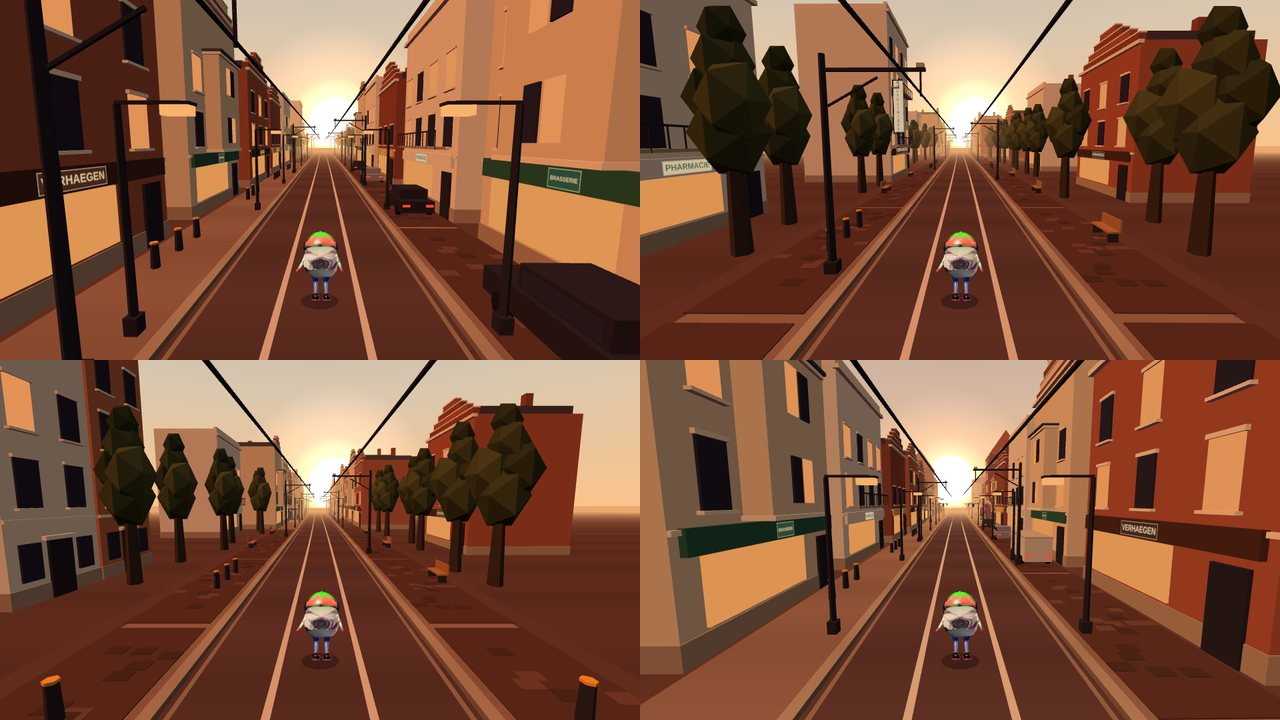
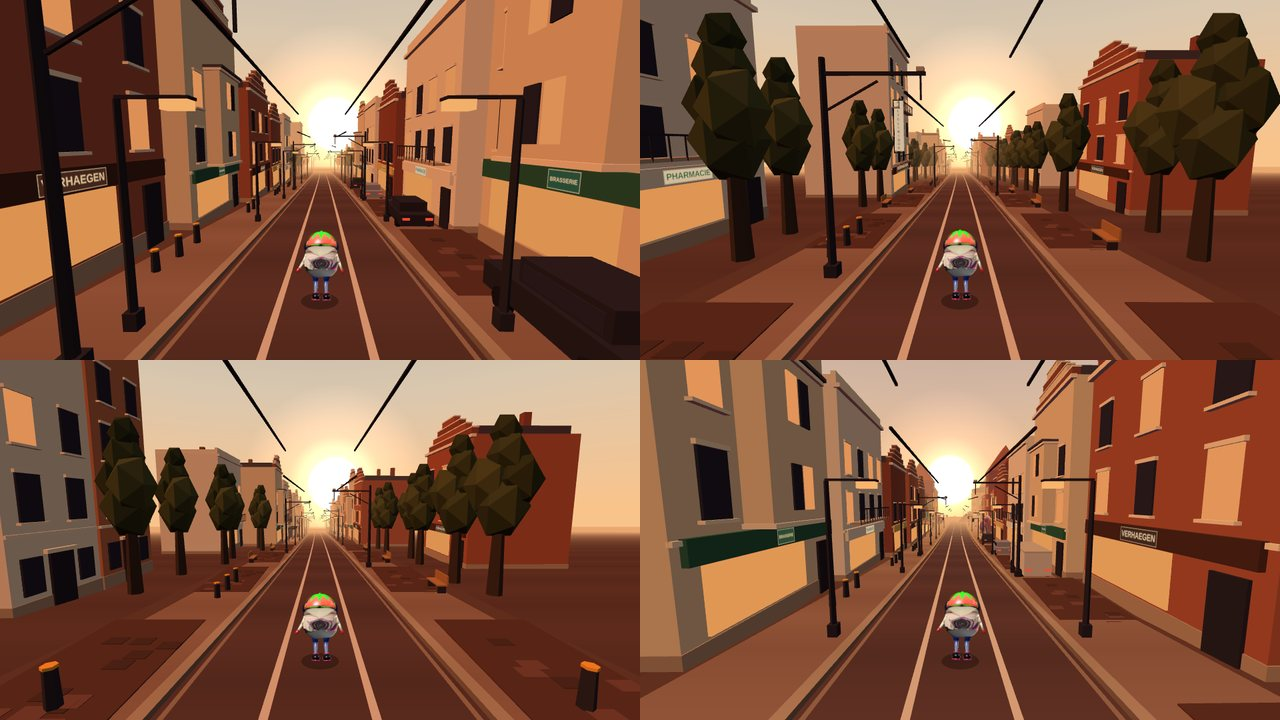
Saint-Gilles runs downhill (7 % grade, from the photos): road, scenery, coins and hazards sit on the slope, the far ground tips with it; gameplay stays flat. Also fix: the first frame's time step could be negative, sending the game clock below zero at start-up (and hiding the pickup sparkle, which m

diff --git a/tests/qa3d_world.js b/tests/qa3d_world.js
@@ -272,6 +272,10 @@ const res = []; const T = (n, ok, i = '') => { res.push(ok); console.log((ok ? '
     const mat = TramArt.material(); out.cells = Object.keys(TramArt.cells).length; out.canvas = mat.map.image instanceof HTMLCanvasElement && mat.map.image.width === 512;
     out.signs = {}; for (const n of ['polyclinique', 'tramStop', 'rowE', 'rowF', 'rowG', 'rowH', 'cornerCafe', 'gateTram']) { const m = ENV3D.tram.props[n](); out.signs[n] = !!(m.sprite && m.material() === mat && m.merged); }
     out.signs.rowA = !ENV3D.tram.props.rowA().sprite;
+    // descent: the street falls 7 % along its length in proportion to its blend; flat everywhere else
+    { const P = w.pieces.find(q => q.type === 'seg' && q.id === 'tramRun'), B = w.pieces.find(q => q.type === 'seg' && q.id === 'cityRunB'); let mono = true, prev = -1;
+      for (let z = P.z0; z <= P.z1; z += 25) { const d = w.dropAt(z); if (d < prev - 1e-6) mono = false; prev = d; }
+      out.grade = { total: +(w.dropAt(P.z1) - w.dropAt(P.z0)).toFixed(1), expect: 0.07 * (P.z1 - P.z0 - P.seg.district), mono, mid: +w.gradeAt((P.z0 + P.z1) / 2).toFixed(3), ends: [w.gradeAt(P.z0 + 1), w.gradeAt(P.z1 - 1)].map(v => +v.toFixed(3)), city: w.dropAt(B.z1) - w.dropAt(B.z0), before: w.gradeAt(B.z0 + 10), afterRun: +(w.dropAt(P.z1 + 3000) - w.dropAt(P.z1)).toFixed(3) }; }
     // the sprite panel of the Polyclinique is the vertical blade sign: tall and narrow
     const pm = ENV3D.tram.props.polyclinique(); pm.sprite.computeBoundingBox(); const bb = pm.sprite.boundingBox; out.blade = { poly: TramArt.cells.poly.ar < 0.3, tall: bb.max.y > 9 };
     return out;
@@ -298,16 +302,23 @@ const res = []; const T = (n, ok, i = '') => { res.push(ok); console.log((ok ? '
     // draw one real frame in the middle of the street and look at it: a bright warm sun low in the upper half, a dark warm street under it
     const mid = (P.z0 + P.z1) / 2; g.p.z = mid; g.world.extend(mid); g.world.items = []; const ah = g.world.playerBand(mid + 300, 0); g.bgTo = ah.to; g.bgT = ah.t; const pb2 = g.world.playerBand(mid, 0); g.camX = pb2.c; g.camOff = pb2.off; g.time += 0.01; r.atmoQ = -1; r.menu = 0;
     r.draw(g); r.renderer.render = realRender; r.draw(g);
+    // the scenery sits on the slope: every visible prop's height below the runner's level is the grade times its distance ahead (checked on the pooled prop meshes)
+    let nProp = 0, worst = 0; for (const k in r.props) for (let n = 0; n < r.propUsed[k]; n++) { const o = r.props[k][n]; if (o.position.z < -20 && o.position.z > -120) { nProp++; worst = Math.max(worst, Math.abs((o.position.y - 0.15) / o.position.z - 0.07)); } }
+    const slope = { nProp, worst: +worst.toFixed(3), pivot: +r.groundPivot.rotation.x.toFixed(3), expect: +(-Math.atan(0.07)).toFixed(3) };
     const cv = document.getElementById('gl'), url = cv.toDataURL('image/png'), img = new Image(); img.src = url; await img.decode();     // (read in the same task as the draw: the GL canvas does not keep its buffer)
     const c2 = document.createElement('canvas'); c2.width = cv.width; c2.height = cv.height; const cx = c2.getContext('2d'); cx.drawImage(img, 0, 0);
     const W = c2.width, H = c2.height, px = cx.getImageData(0, 0, W, H).data; let best = 0, bx = 0, by = 0, warm = 0, n = 0;
     for (let y = 0; y < H * 0.7; y += 2) for (let x = 0; x < W; x += 2) { const i = (y * W + x) * 4, L = px[i] + px[i + 1] + px[i + 2]; if (L > best) { best = L; bx = x; by = y; } }
     let hr = 0, hb = 0, hn = 0; for (let dy = -60; dy <= 60; dy += 6) for (let dx = -60; dx <= 60; dx += 6) { const d = Math.hypot(dx, dy); if (d < 28 || d > 60) continue; const x = bx + dx, y = by + dy; if (x < 0 || y < 0 || x >= W || y >= H) continue; const i = (y * W + x) * 4; hr += px[i]; hb += px[i + 2]; hn++; }   // the halo around the sun
     for (let y = Math.floor(H * 0.85); y < H; y += 4) for (let x = Math.floor(W * 0.3); x < W * 0.7; x += 4) { const i = (y * W + x) * 4; if (px[i] > 20 && px[i] >= px[i + 2]) warm++; n++; }
-    return { dropped: r.dropped, by: r.droppedBy, used, rows, wires, peak: +peak.toFixed(2), sun: { rgb: [...px.slice((by * W + bx) * 4, (by * W + bx) * 4 + 3)], x: +(bx / W).toFixed(2), y: +(by / H).toFixed(2) }, warmRoad: +(warm / n).toFixed(2), halo: [Math.round(hr / hn), Math.round(hb / hn)], bgTo: g.bgTo };
+    return { dropped: r.dropped, by: r.droppedBy, used, rows, wires, peak: +peak.toFixed(2), sun: { rgb: [...px.slice((by * W + bx) * 4, (by * W + bx) * 4 + 3)], x: +(bx / W).toFixed(2), y: +(by / H).toFixed(2) }, warmRoad: +(warm / n).toFixed(2), halo: [Math.round(hr / hn), Math.round(hb / hn)], slope, bgTo: g.bgTo };
   });
+  T('the street runs downhill (7 %): the fall over the segment is grade x run (' + Ts.grade.total + ' of ' + Ts.grade.expect + ' units), steady (never uphill), full 0.07 slope in the middle and none at the ends, flat on the neighbouring city piece and after the street',
+    Math.abs(Ts.grade.total - Ts.grade.expect) < 3 && Ts.grade.mono && Math.abs(Ts.grade.mid - 0.07) < 0.002 && Ts.grade.ends.every(v => v < 0.01) && Ts.grade.city === 0 && Ts.grade.before === 0, JSON.stringify(Ts.grade));
   T('driving through the whole tram street: nothing dropped from any pool (peak ' + Math.round(Tg.peak * 100) + ' %), the wire runs unbroken (both rails in every slot: ' + Tg.wires + ' spans), houses on every pass (' + Tg.rows + ')',
     Tg.dropped === 0 && Tg.peak <= 0.85 && Tg.wires >= 20 && Tg.rows > 100 && Tg.bgTo === 'tram', JSON.stringify({ dropped: Tg.dropped, by: Tg.by, peak: Tg.peak, wires: Tg.wires, rows: Tg.rows }));
+  T('in the middle of the street the scenery follows the slope (' + Tg.slope.nProp + ' props between 20 and 120 m ahead lie on the 7 % line, worst error ' + Tg.slope.worst + ') and the far ground tips down with it (' + Tg.slope.pivot + ' rad)',
+    Tg.slope.nProp > 15 && Tg.slope.worst < 0.012 && Math.abs(Tg.slope.pivot - Tg.slope.expect) < 0.003, JSON.stringify(Tg.slope));
   T('a real frame in the middle of the street: the brightest spot is the sun, low and ahead (upper half, near the middle), bright, in a warm orange halo (R >> B), over a warm road',
     Tg.sun.rgb[0] > 220 && Tg.halo[0] > Tg.halo[1] + 25 && Tg.sun.y < 0.5 && Tg.sun.y > 0.1 && Math.abs(Tg.sun.x - 0.5) < 0.2 && Tg.warmRoad > 0.9, JSON.stringify(Tg.sun) + ' halo ' + Tg.halo + ' warmRoad ' + Tg.warmRoad);
 

diff --git a/src3d/renderer3d.js b/src3d/renderer3d.js
@@ -44,7 +44,10 @@ class Renderer3D {
     this.sunGlow = new THREE.Mesh(new THREE.PlaneGeometry(1, 1), new THREE.MeshBasicMaterial({ map: new THREE.CanvasTexture(gc), transparent: true, blending: THREE.AdditiveBlending, fog: false, depthWrite: false }));
     this.sunGlow.renderOrder = -1; this.sunGlow.visible = false; this.scene.add(this.sunGlow); this.sunOff = { x: -70, y: 28, glow: 0, size: base.sunDisc.size };
     const ground = new THREE.Mesh(new THREE.PlaneGeometry(900, 900), new THREE.MeshLambertMaterial({ color: base.groundFar }));
-    ground.rotation.x = -Math.PI / 2; ground.position.y = -0.03; this.scene.add(ground);
+    // two halves of the far ground: behind the runner it stays flat; ahead it hangs from a pivot at the runner and tips down with the street's slope (see World.dropAt), so a descent never buries the road
+    ground.geometry = new THREE.PlaneGeometry(900, 450); ground.rotation.x = -Math.PI / 2; ground.position.set(0, 0, -225);
+    this.groundPivot = new THREE.Group(); this.groundPivot.position.y = -0.03; this.groundPivot.add(ground); this.scene.add(this.groundPivot);
+    const groundBack = new THREE.Mesh(new THREE.PlaneGeometry(900, 450), ground.material); groundBack.rotation.x = -Math.PI / 2; groundBack.position.set(0, -0.03, 225); this.scene.add(groundBack);
     this._c = [new THREE.Color(), new THREE.Color(), new THREE.Color(), new THREE.Color(), new THREE.Color(), new THREE.Color()];   // scratch colours for blending
     this.atmoTo = ''; this.atmoQ = -1; this.atmoKey = ''; this.applyAtmosphere(this.baseId, 0);
 
@@ -182,6 +185,9 @@ class Renderer3D {
     this.ui.beatPulse = pulse;
 
     // ---- road ribbons (two roads at a fork)
+    // descent: how far below the runner's level a point z (design units) lies (0 on flat road); the slope of the far ground follows the steepest slope seen from here to 150 m ahead
+    const d0 = w.dropAt(p.z), dy = z => -(w.dropAt(z) - d0) * U.Z;
+    this.groundPivot.rotation.x = -Math.atan(Math.max(w.gradeAt(p.z), w.gradeAt(p.z + 1500)));
     this.road.update(w, rz, Lref);
 
     // ---- scenery: slots of SEG_LEN, per road and side; the biome of each side is chosen by the blend at that spot
@@ -208,12 +214,12 @@ class Renderer3D {
           if (c0 === null) { c0 = this.centreOf(sc.a, b.side) - Lref; c1 = this.centreOf(sc.b, b.side) - Lref; }
           // an entrance marker at the first slot of a new biome (only when the change is clean: the two slots before differ, the next one agrees)
           if (env.entrance && !inner && pick(i - 1) !== envId && pick(i - 2) !== envId && pick(i + 1) === envId)
-            this.place(env.entrance, c0 + (c1 - c0) * (1.5 / SL) + sg * 5.2, WALK_Y, rz - zs - 1.5, (sg < 0 ? Math.PI : 0) - Math.atan2(c1 - c0, SL));
+            this.place(env.entrance, c0 + (c1 - c0) * (1.5 / SL) + sg * 5.2, WALK_Y + dy((zs + 1.5) / U.Z), rz - zs - 1.5, (sg < 0 ? Math.PI : 0) - Math.atan2(c1 - c0, SL));
           for (const pl of this.layoutFor(envId, i)) {
             if ((pl.x < 0 ? -1 : 1) !== sg) continue;
             if (inner && (!env.innerOk.has(pl.prop) || Math.abs(pl.x) - hwM > avail - 0.8)) continue;
             const t = pl.dist / SL, cx = c0 + (c1 - c0) * t;
-            this.place(pl.prop, cx + pl.x, WALK_Y, rz - zs - pl.dist, (pl.x < 0 ? Math.PI : 0) + (pl.rotY || 0) - Math.atan2(c1 - c0, SL));
+            this.place(pl.prop, cx + pl.x, WALK_Y + dy((zs + pl.dist) / U.Z), rz - zs - pl.dist, (pl.x < 0 ? Math.PI : 0) + (pl.rotY || 0) - Math.atan2(c1 - c0, SL));
           }
         }
       }
@@ -227,8 +233,9 @@ class Renderer3D {
       if (it.taken || dz < -150 || dz > 1500) continue;         // design units: 15 m behind .. 150 m ahead
       if (it.offV !== w.ver) { it.off = w.bandNear(it.z, it.x).off; it.offV = w.ver; }   // road curve offset at the item, cached until the track changes
       const x = (it.x + it.off) * U.X - Lref, zr = -dz * U.Z;
-      if (it.kind === 'prop') { this.place(it.spr, x, WALK_Y, zr, 0); continue; }
-      if (it.kind === 'coin') this.items.place('coin', x, it.h * U.Y, zr); else this.items.place(it.kind, x, 0, zr);
+      const iy = dy(it.z);                                     // on a descent the item sits on the sloping road
+      if (it.kind === 'prop') { this.place(it.spr, x, WALK_Y + iy, zr, 0); continue; }
+      if (it.kind === 'coin') this.items.place('coin', x, it.h * U.Y + iy, zr); else this.items.place(it.kind, x, iy, zr);
     }
     for (const name in this.props) { const pool = this.props[name]; for (let n = this.propUsed[name]; n < pool.length; n++) pool[n].visible = false; }
     this.items.end(g.time);

diff --git a/src3d/road3d.js b/src3d/road3d.js
@@ -14,7 +14,7 @@ class Road3D {
   constructor(scene, envs, baseId) {
     const D = TRACK3D, N = this.N = D.SECTIONS, SC = this.SC = 15, VPS = this.VPS = SC * 2;
     this.baseId = baseId; this.envs = envs; this.pals = {};
-    this.P = new Float64Array(5); this.X = new Float64Array(12); this.Y = new Float64Array(12); this.C = new Array(11).fill(null);   // scratch for band()
+    this.P = new Float64Array(6); this.X = new Float64Array(12); this.Y = new Float64Array(12); this.C = new Array(11).fill(null);   // scratch for band()
     this.bc = []; for (let i = 0; i < N; i++) this.bc.push({ n: -1e9, ver: -1, bands: null });   // bands per section, reused until the track changes
     this.mat = new THREE.MeshLambertMaterial({ vertexColors: true, flatShading: true, side: THREE.DoubleSide });
     this.OUT = D.CURB_W + D.WALK_W + D.COURT_W + D.FAR;              // "unlimited" room beside an outer edge
@@ -55,7 +55,7 @@ class Road3D {
 
   update(w, rzm, Lref) {
     const N = this.N, DS = TRACK3D.SECTION, n0 = Math.floor((rzm - TRACK3D.BEHIND) / DS), E = this.edge, OUT = this.OUT, P = this.P, X = U3.X;
-    E.n0 = n0;
+    E.n0 = n0; const d0 = w.dropAt(rzm / U3.Z);                  // descent: each section sits lower by the fall between the runner and it (0 on flat road)
     for (let i = 0; i < N; i++) {
       const n = n0 + i, zm = n * DS, sz = rzm - zm, par = n & 1, dash = !par;
       const slot = this.bc[((n % N) + N) % N];
@@ -64,6 +64,7 @@ class Road3D {
       const loA = (bA.lo + bA.off) * X - Lref, hiA = (bA.hi + bA.off) * X - Lref;
       let palA = this.pal(bA.to, bA.t);
       E.z[i] = sz; E.two[i] = bB ? 1 : 0;
+      P[5] = -(w.dropAt(zm / U3.Z) - d0) * U3.Z;
       P[0] = sz;                                               // doubles travel through P, not through call arguments (avoids boxing)
       if (!bB) {
         E.loA[i] = loA; E.hiA[i] = hiA; E.loB[i] = E.hiB[i] = hiA;
@@ -99,9 +100,9 @@ class Road3D {
     const cwL = Math.min(D.CURB_W, availL); let q = availL - cwL; const wwL = Math.min(D.WALK_W, q); q -= wwL; const ctL = Math.min(D.COURT_W, q); q -= ctL; const vgL = Math.min(D.FAR, q);
     const cwR = Math.min(D.CURB_W, availR); q = availR - cwR; const wwR = Math.min(D.WALK_W, q); q -= wwR; const ctR = Math.min(D.COURT_W, q); q -= ctR; const vgR = Math.min(D.FAR, q);
     // column x / y, left to right: verge | court | walk | curb top | curb face | ROAD | curb face | curb top | walk | court | verge
-    const X = this.X, Y = this.Y, C = this.C, L1 = lo - cwL, L2 = L1 - wwL, L3 = L2 - ctL, R1 = hi + cwR, R2 = R1 + wwR, R3 = R2 + ctR;
+    const X = this.X, Y = this.Y, C = this.C, dy = P[5], L1 = lo - cwL, L2 = L1 - wwL, L3 = L2 - ctL, R1 = hi + cwR, R2 = R1 + wwR, R3 = R2 + ctR;
     X[0] = L3 - vgL; X[1] = L3; X[2] = L2; X[3] = L1; X[4] = lo; X[5] = lo; X[6] = hi; X[7] = hi; X[8] = R1; X[9] = R2; X[10] = R3; X[11] = R3 + vgR;
-    Y[0] = Y[1] = Y[2] = Y[3] = CH; Y[4] = cwL > 0.02 ? CH : 0; Y[5] = 0; Y[6] = 0; Y[7] = cwR > 0.02 ? CH : 0; Y[8] = Y[9] = Y[10] = Y[11] = CH;
+    Y[0] = Y[1] = Y[2] = Y[3] = CH; Y[4] = cwL > 0.02 ? CH : 0; Y[5] = 0; Y[6] = 0; Y[7] = cwR > 0.02 ? CH : 0; Y[8] = Y[9] = Y[10] = Y[11] = CH; for (let s = 0; s < 12; s++) Y[s] += dy;
     C[0] = pal.verge[par]; C[1] = pal.court; C[2] = pal.walk[par]; C[3] = pal.curb[par]; C[4] = pal.curbFace; C[5] = pal.asphalt[par];
     C[6] = pal.curbFace; C[7] = pal.curb[par]; C[8] = pal.walk[par]; C[9] = pal.court; C[10] = pal.verge[par];
     const R = this.rib[r], pos = R.pos, col = R.col, base = i * this.VPS * 3;
@@ -111,7 +112,7 @@ class Road3D {
       col[o] = c.r; col[o + 1] = c.g; col[o + 2] = c.b; col[o + 3] = c.r; col[o + 4] = c.g; col[o + 5] = c.b;
     }
     // markings: lane lines at the thirds (dashed), edge lines near each edge (continuous); zero width = nothing drawn
-    const w = hi - lo, my = 0.02, wide = w > 2.4, l1 = lo + w / 3, l2 = hi - w / 3, hw = wide && (dash || pal.rails) ? (pal.rails ? 0.09 : 0.06) : 0, ew = w > 0.8 ? 0.06 : 0;
+    const w = hi - lo, my = 0.02 + dy, wide = w > 2.4, l1 = lo + w / 3, l2 = hi - w / 3, hw = wide && (dash || pal.rails) ? (pal.rails ? 0.09 : 0.06) : 0, ew = w > 0.8 ? 0.06 : 0;
     const mk = pal.mark, ed = pal.edge, o = base + 11 * 6;
     pos[o] = l1 - hw; pos[o + 1] = my; pos[o + 2] = z; pos[o + 3] = l1 + hw; pos[o + 4] = my; pos[o + 5] = z;
     pos[o + 6] = l2 - hw; pos[o + 7] = my; pos[o + 8] = z; pos[o + 9] = l2 + hw; pos[o + 10] = my; pos[o + 11] = z;

diff --git a/src/world.js b/src/world.js
@@ -105,6 +105,31 @@ class World {
 
   pieceAt(z) { return this.pieces.find(p => z < p.z1) || this.pieces[this.pieces.length - 1]; }
 
+  // blend 0..1 of a district segment at z: in over its first `district` units, out over its last (an `opening` one is already fully in at the start)
+  districtT(P, z) {
+    const s = P.seg, d = s.district === true ? 0.3 * (P.z1 - P.z0) : s.district;
+    return ease(clamp(Math.min(s.opening ? d : z - P.z0, P.z1 - z) / d, 0, 1));
+  }
+
+  // DESCENT. A segment with `grade` (fall per unit of run, e.g. 0.07) slopes downhill along its length in proportion to its district blend, so the slope eases in and out with the
+  // atmosphere. Gameplay stays flat (the runner is always at height 0); only the drawing follows the slope. dropAt(z) is the fall, in units of run, from the start of the graded pieces held
+  // up to z: only differences between two z are meaningful (pieces behind the runner are pruned, which cancels out). gradeAt(z) is the slope at z.
+  dropAt(z) {
+    let d = 0;
+    for (const P of this.pieces) {
+      if (P.type !== 'seg' || !P.seg.grade || z <= P.z0) continue;
+      const tab = P.dropTab || (P.dropTab = this.dropTable(P)), k = (Math.min(z, P.z1) - P.z0) / 20, i = Math.min(tab.length - 2, Math.floor(k));
+      d += P.seg.grade * (tab[i] + (tab[i + 1] - tab[i]) * (k - i));
+    }
+    return d;
+  }
+  gradeAt(z) { const P = this.pieceAt(z); return P.type === 'seg' && P.seg.grade ? P.seg.grade * (P.seg.district ? this.districtT(P, z) : 1) : 0; }
+  dropTable(P) {                                        // running integral of the blend every 20 units (trapezoids)
+    const n = Math.ceil((P.z1 - P.z0) / 20) + 2, tab = new Float32Array(n); let prev = P.seg.district ? this.districtT(P, P.z0) : 1;
+    for (let j = 1; j < n; j++) { const t = P.seg.district ? this.districtT(P, Math.min(P.z1, P.z0 + j * 20)) : 1; tab[j] = tab[j - 1] + 20 * (prev + t) / 2; prev = t; }
+    return tab;
+  }
+
   // Road bands at depth z, each with a lateral range, a curve offset and its biome blend.
   // One band on normal road; two on a junction (they diverge, run parallel, then rejoin).
   bandsAt(z) {
@@ -112,7 +137,7 @@ class World {
     if (P.type === 'seg') {
       const s = P.seg, pv = P.prev;
       let to = s.biome, t = 0;
-      if (s.district) { const d = s.district === true ? 0.3 * (P.z1 - P.z0) : s.district; t = ease(clamp(Math.min(s.opening ? d : z - P.z0, P.z1 - z) / d, 0, 1)); }   // a district fades in over its first `district` units and out over its last (an `opening` one is already fully in at the start)
+      if (s.district) t = this.districtT(P, z);   // a district fades in over its first `district` units and out over its last (an `opening` one is already fully in at the start)
       if (pv && pv.type === 'fork' && pv.choice) { // fade out of the branch we just left
         to = T.segments[pv.fork[pv.choice].route].biome;
         t = clamp(1 - (z - pv.be) / (pv.fork.merge + 250), 0, 1);

diff --git a/src/track.js b/src/track.js
@@ -52,7 +52,7 @@ const TRACK = {
     neonRun:   { name: 'NEON QUARTER',  biome: 'neon',   length: 5000, curve: -0.8, first: 140, spacing: 210, district: 1200,
                  patterns: ['line', 'trailR', 'crateJump', 'dodgeL', 'hurdle', 'risky', 'slideGate', 'zig'] },
     // the TRAM STREET: a Brussels street at sunset (low sun ahead, tram rails in the cobbles, overhead wires); a district like the neon quarter, fading in and out over 120 m
-    tramRun:   { name: 'SAINT-GILLES',   biome: 'tram',   length: 4500, curve: 0.6,  first: 140, spacing: 210, district: 1200,
+    tramRun:   { name: 'SAINT-GILLES',   biome: 'tram',   length: 4500, curve: 0.6,  first: 140, spacing: 210, district: 1200, grade: 0.07,   // grade: the street runs downhill (7 %), like in the photos
                  patterns: ['line', 'hurdle', 'trailL', 'crateJump', 'dodgeR', 'risky', 'slideGate', 'zig', 'trailR'] },
     // second variants of the repeating pieces (same biomes and names, a different bend, length and pattern mix) so each lap along the loop is not a copy of the last
     cityRunB:  { name: 'OLD TOWN',      biome: 'city',   length: 1150, curve: -1.0, first: 90,  spacing: 210,

diff --git a/tests/qa3d_coins.js b/tests/qa3d_coins.js
@@ -20,7 +20,7 @@ const res = []; const T = (n, ok, i = '') => { res.push(ok); console.log((ok ? '
   const b = await chromium.launch({ executablePath: process.env.CHROMIUM || '/root/.cache/ms-playwright/chromium-1194/chrome-linux/chrome', args: ['--no-sandbox', '--use-gl=angle', '--use-angle=swiftshader', '--enable-unsafe-swiftshader'] });
   const pg = await (await b.newContext({ viewport: { width: 480, height: 270 } })).newPage();
   const errs = []; pg.on('pageerror', e => errs.push(e.message)); pg.on('console', m => m.type() === 'error' && errs.push(m.text()));
-  await pg.goto(process.env.TEST_URL || 'http://localhost:' + PORT + '/');   // TEST_URL=https://... runs the same checks against a deployed copy await pg.waitForFunction(() => window.__wf, null, { timeout: 30000 }); await pg.waitForTimeout(600);
+  await pg.goto(process.env.TEST_URL || 'http://localhost:' + PORT + '/'); await pg.waitForFunction(() => window.__wf, null, { timeout: 30000 }); await pg.waitForTimeout(600);   // TEST_URL=https://... runs the same checks against a deployed copy
 
   await pg.evaluate(() => {
     const g = __wf, r = g.r;

diff --git a/src/game.js b/src/game.js
@@ -66,7 +66,7 @@ class Game {
     let last = performance.now();
     const loop = now => {
       requestAnimationFrame(loop); // re-arm first so one bad frame can never freeze the game
-      const dt = Math.min(0.05, (now - last) / 1000); last = now;
+      const dt = Math.max(0, Math.min(0.05, (now - last) / 1000)); last = now;   // never negative: the first frame's timestamp can precede the clock read at start-up, which used to send the game clock below zero (and hid the pickup sparkle, whose pool marks unused slots with t < 0)
       this.advance(dt); this.draw(dt);
     };
     requestAnimationFrame(loop);

diff --git a/README.md b/README.md
@@ -33,7 +33,7 @@ A third set of 17 pictures (`src3d/neon_assets3.js`, one alpha atlas) adds 17 mo
 
 ![neon quarter](docs/screenshots/neon-quarter.jpg)
 
-**Saint-Gilles (the tram street):** a street in Saint-Gilles, Brussels, at sunset, from your two street photos (`src3d/env_tram.js`, `src3d/tram_art.js`), as the track segment `tramRun` (450 m, a `district` like the Neon Quarter, between the second lap's city run and the second fork). The sky, fog, light, road palette and scenery fade from the old town into it over the first 120 m and back over the last 120 m. A big low sun sits ahead, a little right of the road, with a soft orange glow (`sunPos` / `sunGlow` in the biome data, drawn by `Renderer3D`; the other zones keep the default sun), a pale blue-grey sky, warm haze, and one low orange light from ahead that rims the facades and leaves the rest in warm shade. The road is dark red-brown cobbles with the two lane lines drawn as continuous silver **tram rails** (`rails: true` in the road palette); overhead **tram wires** run unbroken over both rails with poles every third slot, swan-neck lamps, a cobbled parking strip with parked cars (rear lights on), dark tall trees, and townhouses in brick, cream and white with bay windows, iron balconies and Brussels stepped gables (eight types; neighbours on a side are never the same type: even and odd slots draw from separate sets). Shop fronts carry lettered fascias, and three landmarks appear at most once per stretch: the **Polyclinique** block (its vertical POLYCLINIQUE blade sign and the VERHAEGEN fascia from your photos), a **tram stop** with a TRAM plate, and a corner cafe. The signs are drawn at start-up on one small canvas atlas (`TramArt`, 7 cells, no image file). Both photos are used for the look (palette, composition, signs), not pasted in: the street is built from low-poly parts like the other zones.
+**Saint-Gilles (the tram street):** a street in Saint-Gilles, Brussels, at sunset, from your two street photos (`src3d/env_tram.js`, `src3d/tram_art.js`), as the track segment `tramRun` (450 m, a `district` like the Neon Quarter, between the second lap's city run and the second fork). The sky, fog, light, road palette and scenery fade from the old town into it over the first 120 m and back over the last 120 m. A big low sun sits ahead, a little right of the road, with a soft orange glow (`sunPos` / `sunGlow` in the biome data, drawn by `Renderer3D`; the other zones keep the default sun), a pale blue-grey sky, warm haze, and one low orange light from ahead that rims the facades and leaves the rest in warm shade. The road is dark red-brown cobbles with the two lane lines drawn as continuous silver **tram rails** (`rails: true` in the road palette); overhead **tram wires** run unbroken over both rails with poles every third slot, swan-neck lamps, a cobbled parking strip with parked cars (rear lights on), dark tall trees, and townhouses in brick, cream and white with bay windows, iron balconies and Brussels stepped gables (eight types; neighbours on a side are never the same type: even and odd slots draw from separate sets). Shop fronts carry lettered fascias, and three landmarks appear at most once per stretch: the **Polyclinique** block (its vertical POLYCLINIQUE blade sign and the VERHAEGEN fascia from your photos), a **tram stop** with a TRAM plate, and a corner cafe. The signs are drawn at start-up on one small canvas atlas (`TramArt`, 7 cells, no image file). The street runs **downhill** (the last two photos were taken on a descent): the segment has `grade: 0.07` (7 %), and the road, the scenery, the coins and the hazards sit lower the further ahead they are, so the sun hangs above the road's far end. It is drawing only: gameplay stays flat (the runner is always at height 0), and `World.dropAt` / `gradeAt` give the fall, in proportion to the district blend so the slope eases in and out with the atmosphere; the far ground tips down with it so the road never sinks under it. Both photos are used for the look (palette, composition, signs), not pasted in: the street is built from low-poly parts like the other zones.
 
 ![tram street](docs/screenshots/tram-street.jpg)
 
